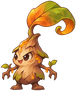
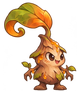
Ash Sprout and Thornback Hedgehog animate: idle and move frames from the owner's sheets
Eight idle frames (the sheets' four sniff/sway frames held two ticks each) and eight move
frames per monster, cropped to a shared box so nothing jumps between frames, scaled to
80 x 92 and 120 x 97 at 100 px per unit and mirrored to face right. Bodies match.

Claude-Session: https://claude.ai/code/session_01FdNBSjX3EpmvbacjATUpjx

diff --git a/Assets/Scripts/Data/MonsterDefs.cs b/Assets/Scripts/Data/MonsterDefs.cs
@@ -81,7 +81,7 @@ namespace AshenVale
                 width = .96f, height = .58f, hp = 40, speed = 1.8f, damage = 7, xp = 7, goldMin = 4, goldRange = 5,
                 part = Parts.ShrewTuft },          // scurries through the leaf litter of Emberfields; art 96 x 58
             new MonsterDef { key = "thornback_hedgehog", name = "Thornback Hedgehog", level = 4, color = new Color(.45f, .32f, .22f),
-                width = 1.2f, height = .86f, hp = 130, speed = 1.5f, damage = 14, xp = 22, goldMin = 14, goldRange = 9,
+                width = 1.2f, height = .97f, hp = 130, speed = 1.5f, damage = 14, xp = 22, goldMin = 14, goldRange = 9,
                 aggressive = true, respawn = 15f,
                 part = Parts.HedgehogQuill, partChance = .5f },
             new MonsterDef { key = "moss_crawler", name = "Moss Crawler", level = 6, color = new Color(.31f, .71f, .45f),
@@ -92,7 +92,7 @@ namespace AshenVale
                 aggressive = true,
                 part = Parts.WraithSilk },
             new MonsterDef { key = "ash_sprout", name = "Ash Sprout", level = 2, color = new Color(.62f, .7f, .38f),
-                width = .76f, height = .92f, hp = 55, speed = 1f, damage = 6, xp = 10, goldMin = 6, goldRange = 6,
+                width = .8f, height = .92f, hp = 55, speed = 1f, damage = 6, xp = 10, goldMin = 6, goldRange = 6,
                 part = Parts.SproutLeaf },
             new MonsterDef { key = "old_chest", name = "Old Chest", level = 4, color = new Color(.62f, .43f, .22f),
                 width = 1f, height = .8f, hp = 100, speed = 0f, damage = 0, xp = 20, goldMin = 35, goldRange = 25,

diff --git a/ART.md b/ART.md
@@ -152,8 +152,8 @@ Body sizes (width x height, in px at 100 px per unit) from `Assets/Scripts/Data/
 | Key | Monster | Lv | Body |
 |---|---|---|---|
 | `hedge_shrew` | Hedge Shrew | 1 | 96 x 58 (painted: idle 8 frames, move 8) |
-| `ash_sprout` | Ash Sprout | 2 | 76 x 92 (painted, idle) |
-| `thornback_hedgehog` | Thornback Hedgehog | 4 | 120 x 86 (painted, idle) |
+| `ash_sprout` | Ash Sprout | 2 | 80 x 92 (painted: idle 8 frames, move 8) |
+| `thornback_hedgehog` | Thornback Hedgehog | 4 | 120 x 97 (painted: idle 8 frames, move 8) |
 | `old_chest` | Old Chest | 4 | 100 x 80 |
 | `moss_crawler` | Moss Crawler | 6 | 100 x 70 |
 | `bramble_boar` | Bramble Boar | 8 | 140 x 100 |
